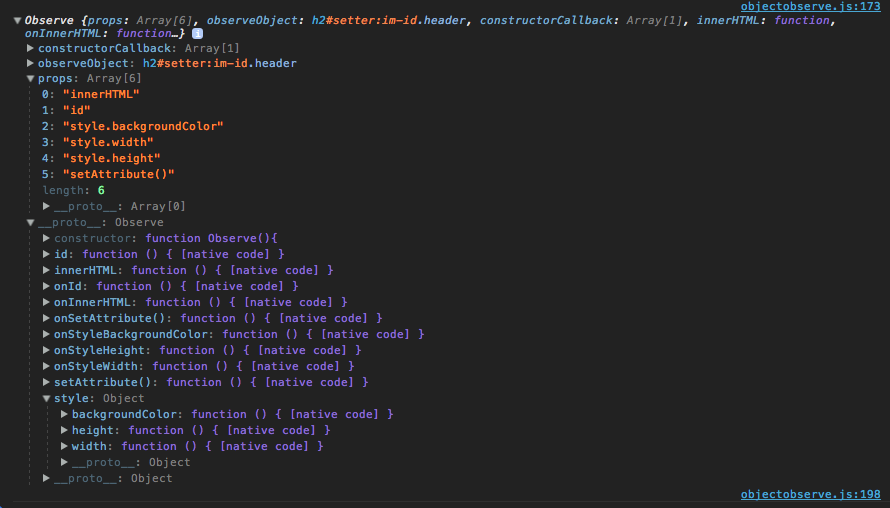
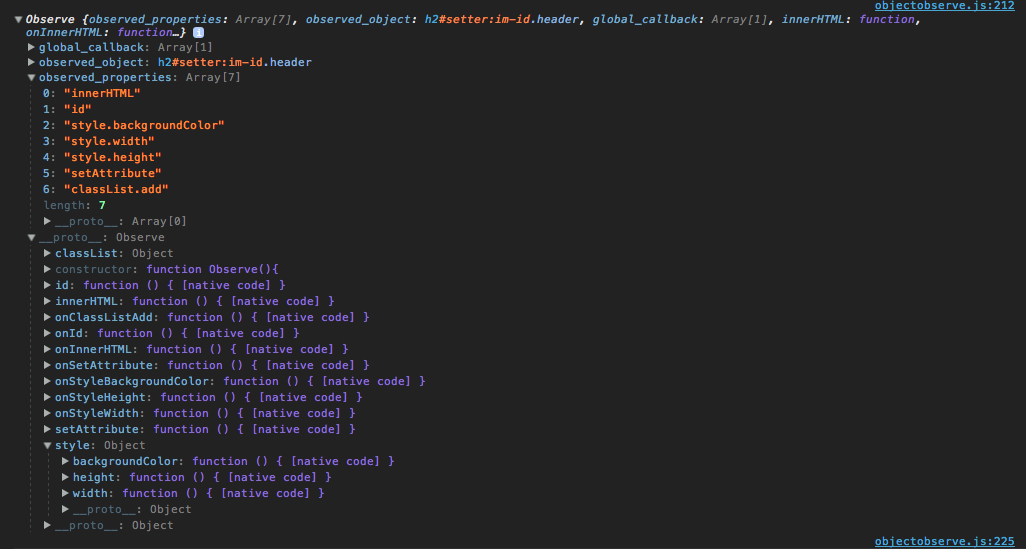
- update

Changed region(s): [[0.0, 0.0, 1.0, 0.9744], [0.8191, 0.9449, 1.0, 1.0]]

diff --git a/objectobserve.js b/objectobserve.js
@@ -175,7 +175,6 @@ window.onload = function(){
 
     var $ = document.querySelectorAll.bind(document);
 
-    // > init observer
     var $observedObject = new ObjectObserve($('.header')[0],
         'innerHTML',
         'id',
@@ -204,9 +203,11 @@ window.onload = function(){
     $observedObject.onStyleBackgroundColor(function(arg){
         console.log('onStyleBackgroundColor', arg, this);
     });
+    /*
     $observedObject.onClassListAdd(function(arg){
         console.log('onClassListAdd', arg, this);
     });
+    */
     $observedObject.onSetAttribute(function(arg){
         console.log('onSetAttribute', arg, this);
     });
@@ -218,7 +219,7 @@ window.onload = function(){
     $observedObject.id('setter:im-id');
     $observedObject.innerHTML('setter:Hello innerHTML :)');
 
-    $observedObject.classList.add('added-class');
+    //$observedObject.classList.add('added-class');
     $observedObject.setAttribute('data-foo', 'nice');
 
     console.log($observedObject);

diff --git a/README.md b/README.md
@@ -16,17 +16,14 @@
 ````js
 var $ = document.querySelectorAll.bind(document);
 
-var $observedObject = new ObjectObserve(
-    // > observed object
-    $('.header')[0],
-    // > observed attributes/methods
+var $observedObject = new ObjectObserve($('.header')[0],
     'innerHTML',
     'id',
     'style.backgroundColor',
     'style.width',
     'style.height',
     'setAttribute()',
-    // > global callback - optional
+    'classList.add()',
     function(arg){
         console.log('constructor', arg, this);
 });
@@ -47,11 +44,12 @@ $observedObject.onStyleHeight(function(arg){
 $observedObject.onStyleBackgroundColor(function(arg){
     console.log('onStyleBackgroundColor', arg, this);
 });
-/*
+$observedObject.onClassListAdd(function(arg){
+    console.log('onClassListAdd', arg, this);
+});
 $observedObject.onSetAttribute(function(arg){
     console.log('onSetAttribute', arg, this);
 });
-*/
 
 // > set or get to trigger the registered callbacks
 $observedObject.style.backgroundColor('red');
@@ -59,7 +57,9 @@ $observedObject.style.height('100px');
 $observedObject.style.width('300px');
 $observedObject.id('setter:im-id');
 $observedObject.innerHTML('setter:Hello innerHTML :)');
-//$observedObject.setAttribute('data-foo', 'nice');
+
+$observedObject.classList.add('added-class');
+$observedObject.setAttribute('data-foo', 'nice');
 
 console.log($observedObject);
 ````
